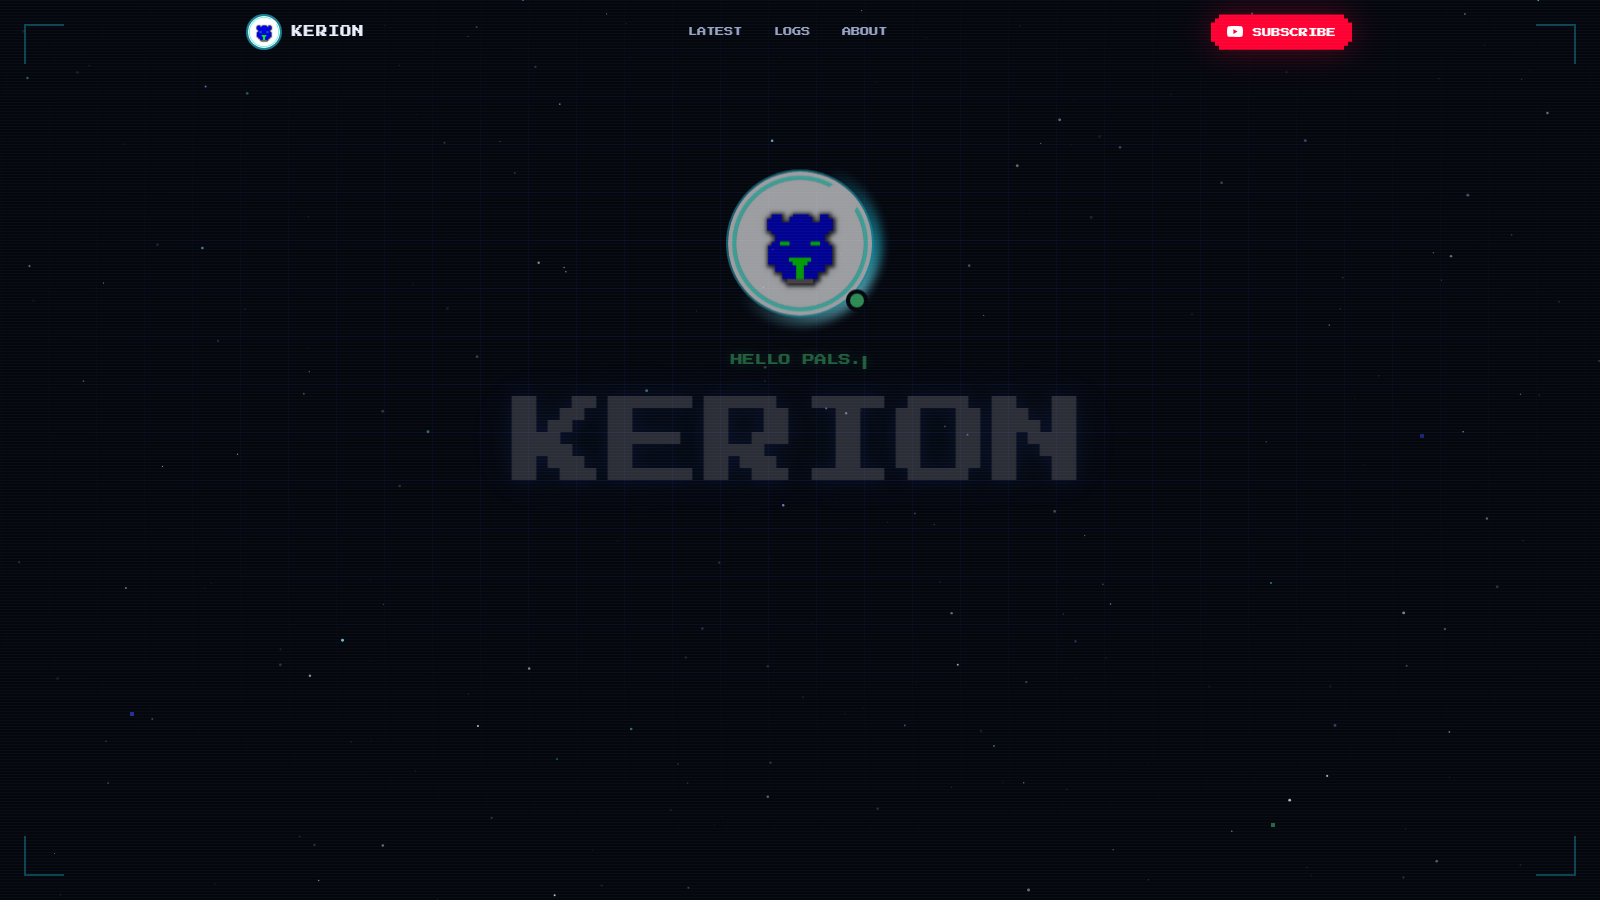
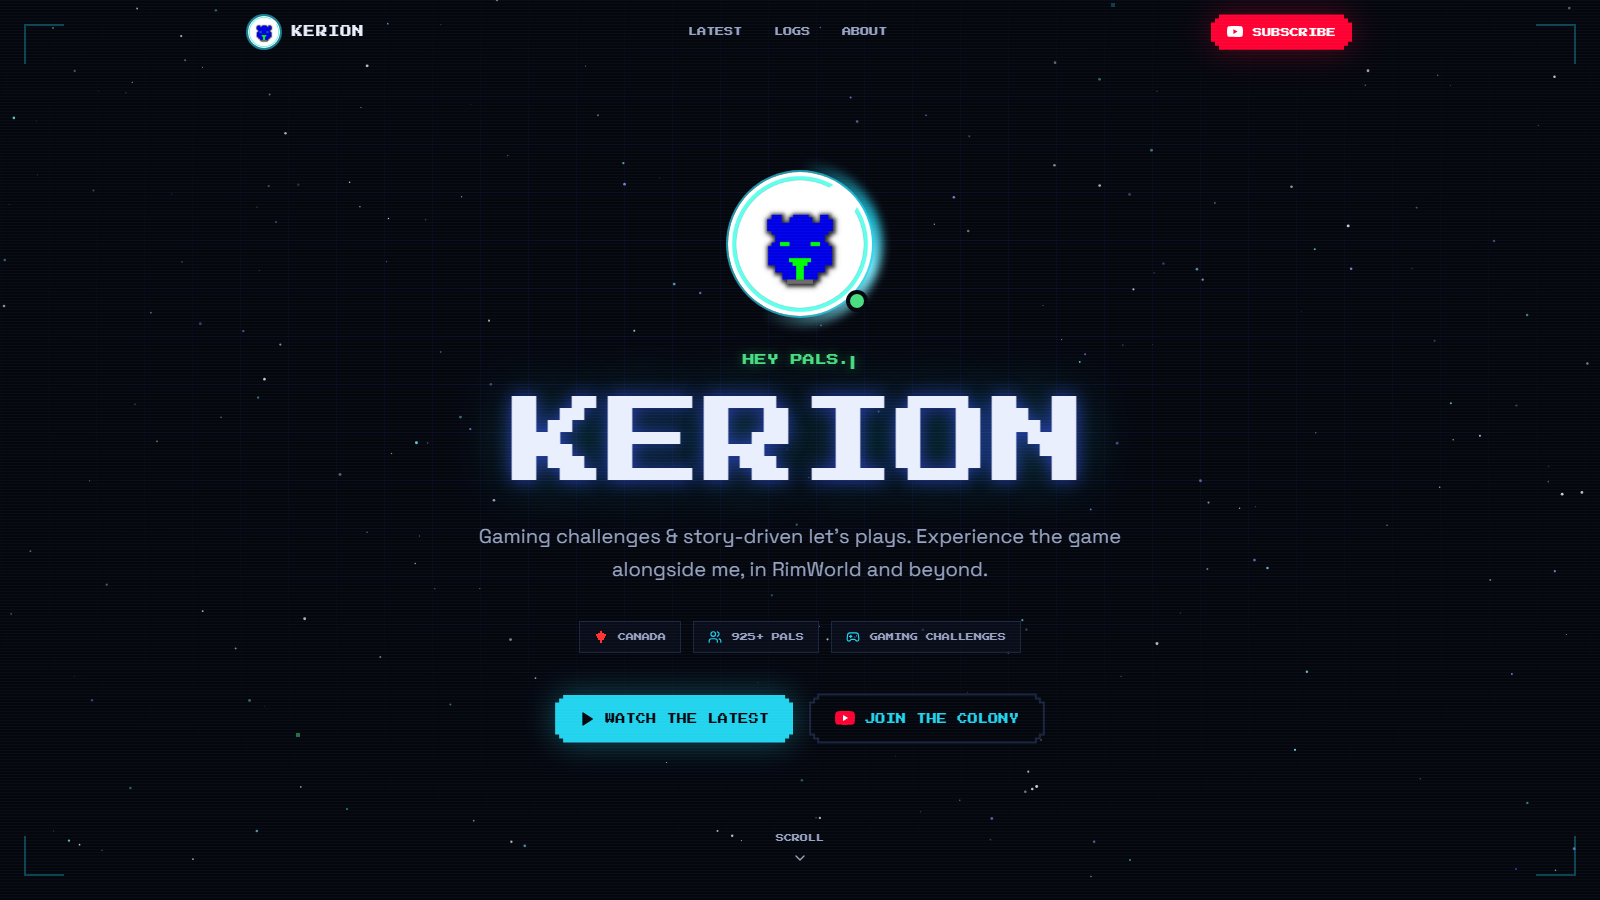
Improve light theme, refresh Kerion card image, tighten services copy
- Light theme: replace muddy olive/brown accents and gradient with clean greens
  (decoupled a vibrant fill green from an AA-safe text green) plus a
  green-to-green-to-magenta gradient, fixing the "wacky" light-mode colours
- Kerion: update the Recent Work card image to the current site design
- Services: "I can probably build it" -> "I can build it"

diff --git a/src/index.css b/src/index.css
@@ -77,17 +77,21 @@ html.light {
   --color-card-2: #f2efe7;
   --color-card-hover: #e9e5da;
 
-  /* Darken acids so they clear AA as text/borders (and fills) on bone paper. */
-  --color-accent: #5a7a00;
-  --color-accent-2: #b2005e;
-  --color-accent-3: #5a7a00;
-  --color-accent-glow: rgba(90, 122, 0, 0.2);
+  /* Light-mode acids: a vibrant green for FILLS (buttons/badges carry dark text)
+     and a darker green for TEXT/icons so it clears AA on the bone paper. Keeping
+     both clean (not olive) is what stops the palette reading muddy. */
+  --color-accent: #6f9e00;
+  --color-accent-2: #c01568;
+  --color-accent-3: #40680a;
+  --color-accent-glow: rgba(111, 158, 0, 0.2);
 
   --grid-line: rgba(10, 10, 10, 0.06);
   --glass-bg: rgba(251, 250, 246, 0.72);
-  --grad-1: #4e6b00;
-  --grad-2: #6a5a00;
-  --grad-3: #b2005e;
+  /* Clean green -> green -> magenta (was olive -> brown -> magenta, which muddied
+     gradient text like the hero name). */
+  --grad-1: #3f7300;
+  --grad-2: #5a8f00;
+  --grad-3: #c01568;
   --vignette: rgba(10, 10, 10, 0.06);
   --stroke-ink: rgba(10, 10, 10, 0.32);
 }

diff --git a/src/components/sections/WebDev.jsx b/src/components/sections/WebDev.jsx
@@ -221,7 +221,7 @@ const WebDev = () => {
           <SectionHeading
             eyebrow="Services"
             title="What I can build for you."
-            kicker="Whatever you need built, I can help. If you can describe it, I can probably build it. Here's a sample of the work I take on."
+            kicker="Whatever you need built, I can help. If you can describe it, I can build it. Here's a sample of the work I take on."
           />
           <div className="grid gap-6 sm:grid-cols-2 md:grid-cols-3">
             {services.map((s, i) => (